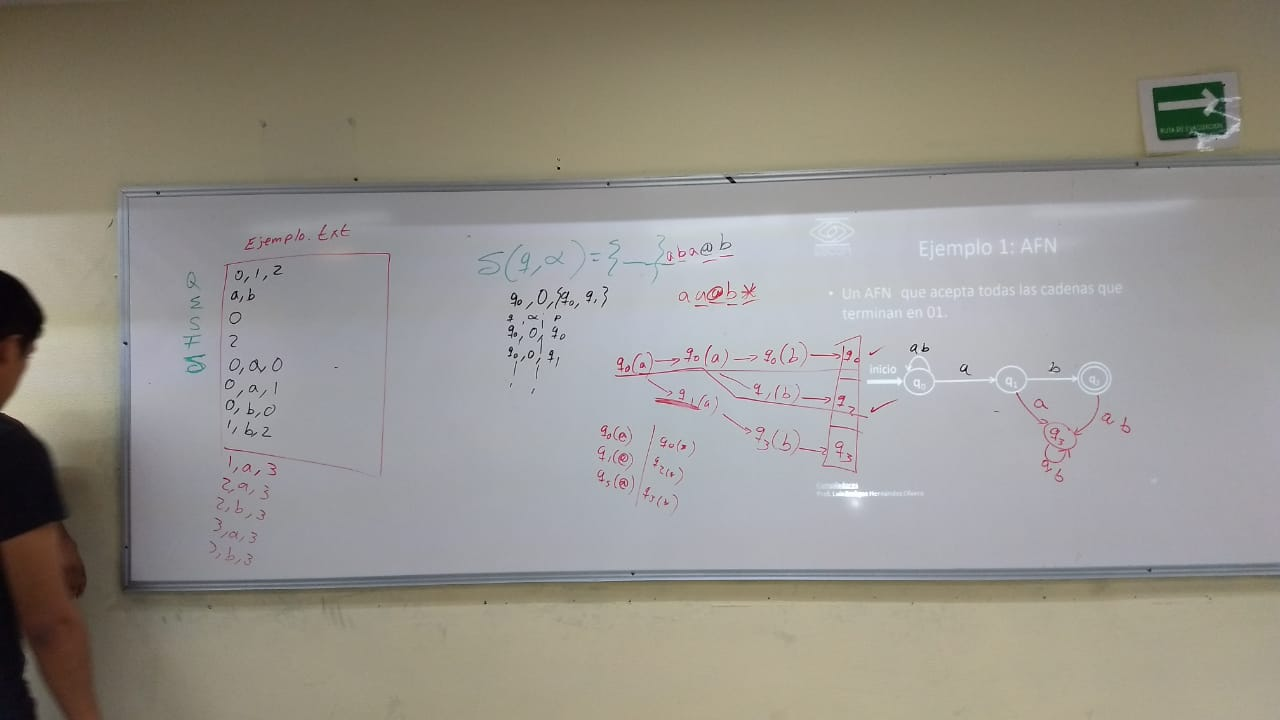
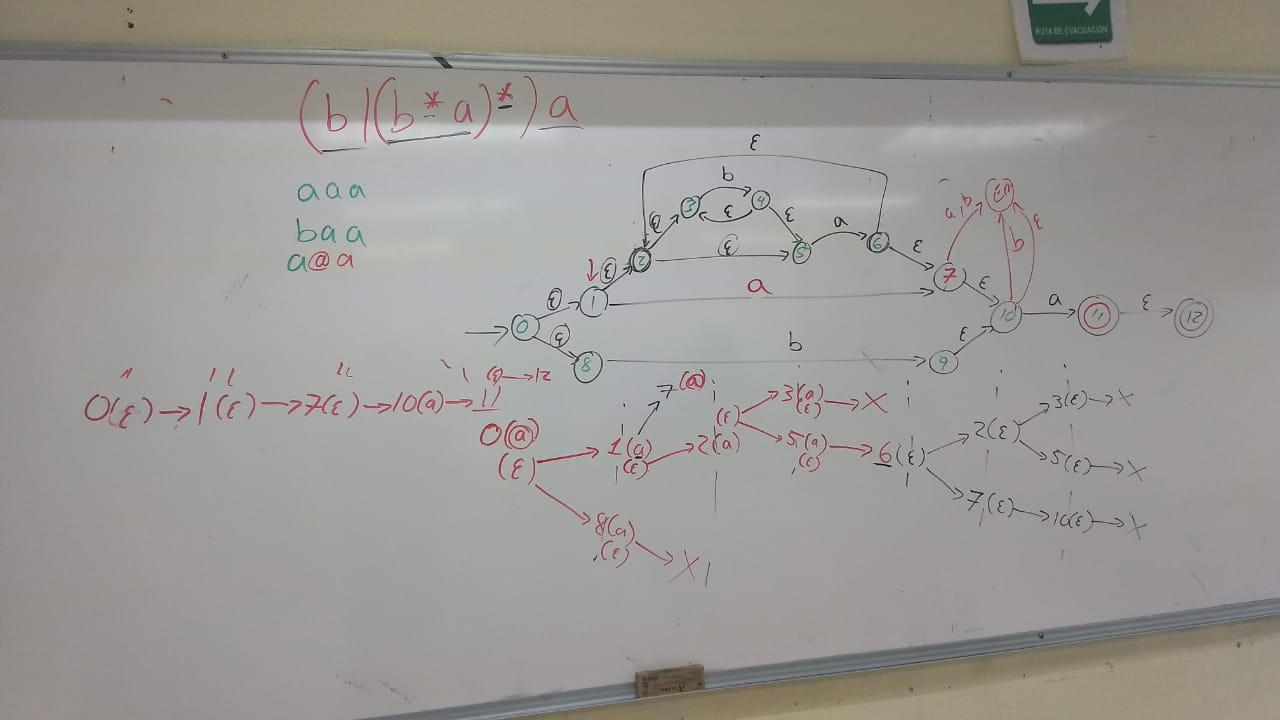
Funcion epsilon

diff --git a/Practica2/automata.py b/Practica2/automata.py
@@ -85,11 +85,12 @@ class Automata:
                     print("Cadena valida con error:\n{} -> {}".format(str(nodoAut).strip('NodoAutomata(')[10:-2],estado))
                     print("Errores:\n{}\n".format(str(nodoError).strip('NodoError()')[3:-1]))
                 else:
-                    print("Cadena valida sin error:\n{}\n".format(str(nodoAut).strip('NodoAutomata(')[2:-2]))
+                    print("Cadena valida sin error:\n{} -> {}\n".format(str(nodoAut).strip('NodoAutomata(')[10:-2], estado))
             else:
-                print("!Cadena invalida!", estado)
+                print("!Cadena invalida!")
         elif cad[0] in self.sigma:
             siguientes = self.siguientes(estado, cad[0])
+            epsilon = self.epsilon()
             for sig in siguientes:
                 text = "{}({})".format(estado, cad[0])
                 hijo = NodoAutomata(text, parent=nodoAut)
@@ -103,6 +104,13 @@ class Automata:
         out = list()
         for transicion in self.transiciones:
             if transicion[0] == estado and transicion[1] == caracter:
+                out.append(transicion[2])
+        return out
+
+    def epsilon(self, estado):
+        out = list()
+        for transicion in self.transiciones:
+            if transicion[0] == estado and transicion[1] == 'E':
                 out.append(transicion[2])
         return out
 

diff --git a/Practica1/main.py b/Practica1/main.py
@@ -19,7 +19,7 @@ from automata import *
 
 aut = Automata()
 
-automataFile = open("4.txt", "r")
+automataFile = open("ejemplo.txt", "r")
 
 aut.setEstados(automataFile.readline())
 aut.setSigma(automataFile.readline())

diff --git a/Practica2/main.py b/Practica2/main.py
@@ -19,7 +19,7 @@ from automata import *
 
 aut = Automata()
 
-automataFile = open("4.txt", "r")
+automataFile = open("ejemplo.txt", "r")
 
 aut.setEstados(automataFile.readline())
 aut.setSigma(automataFile.readline())
